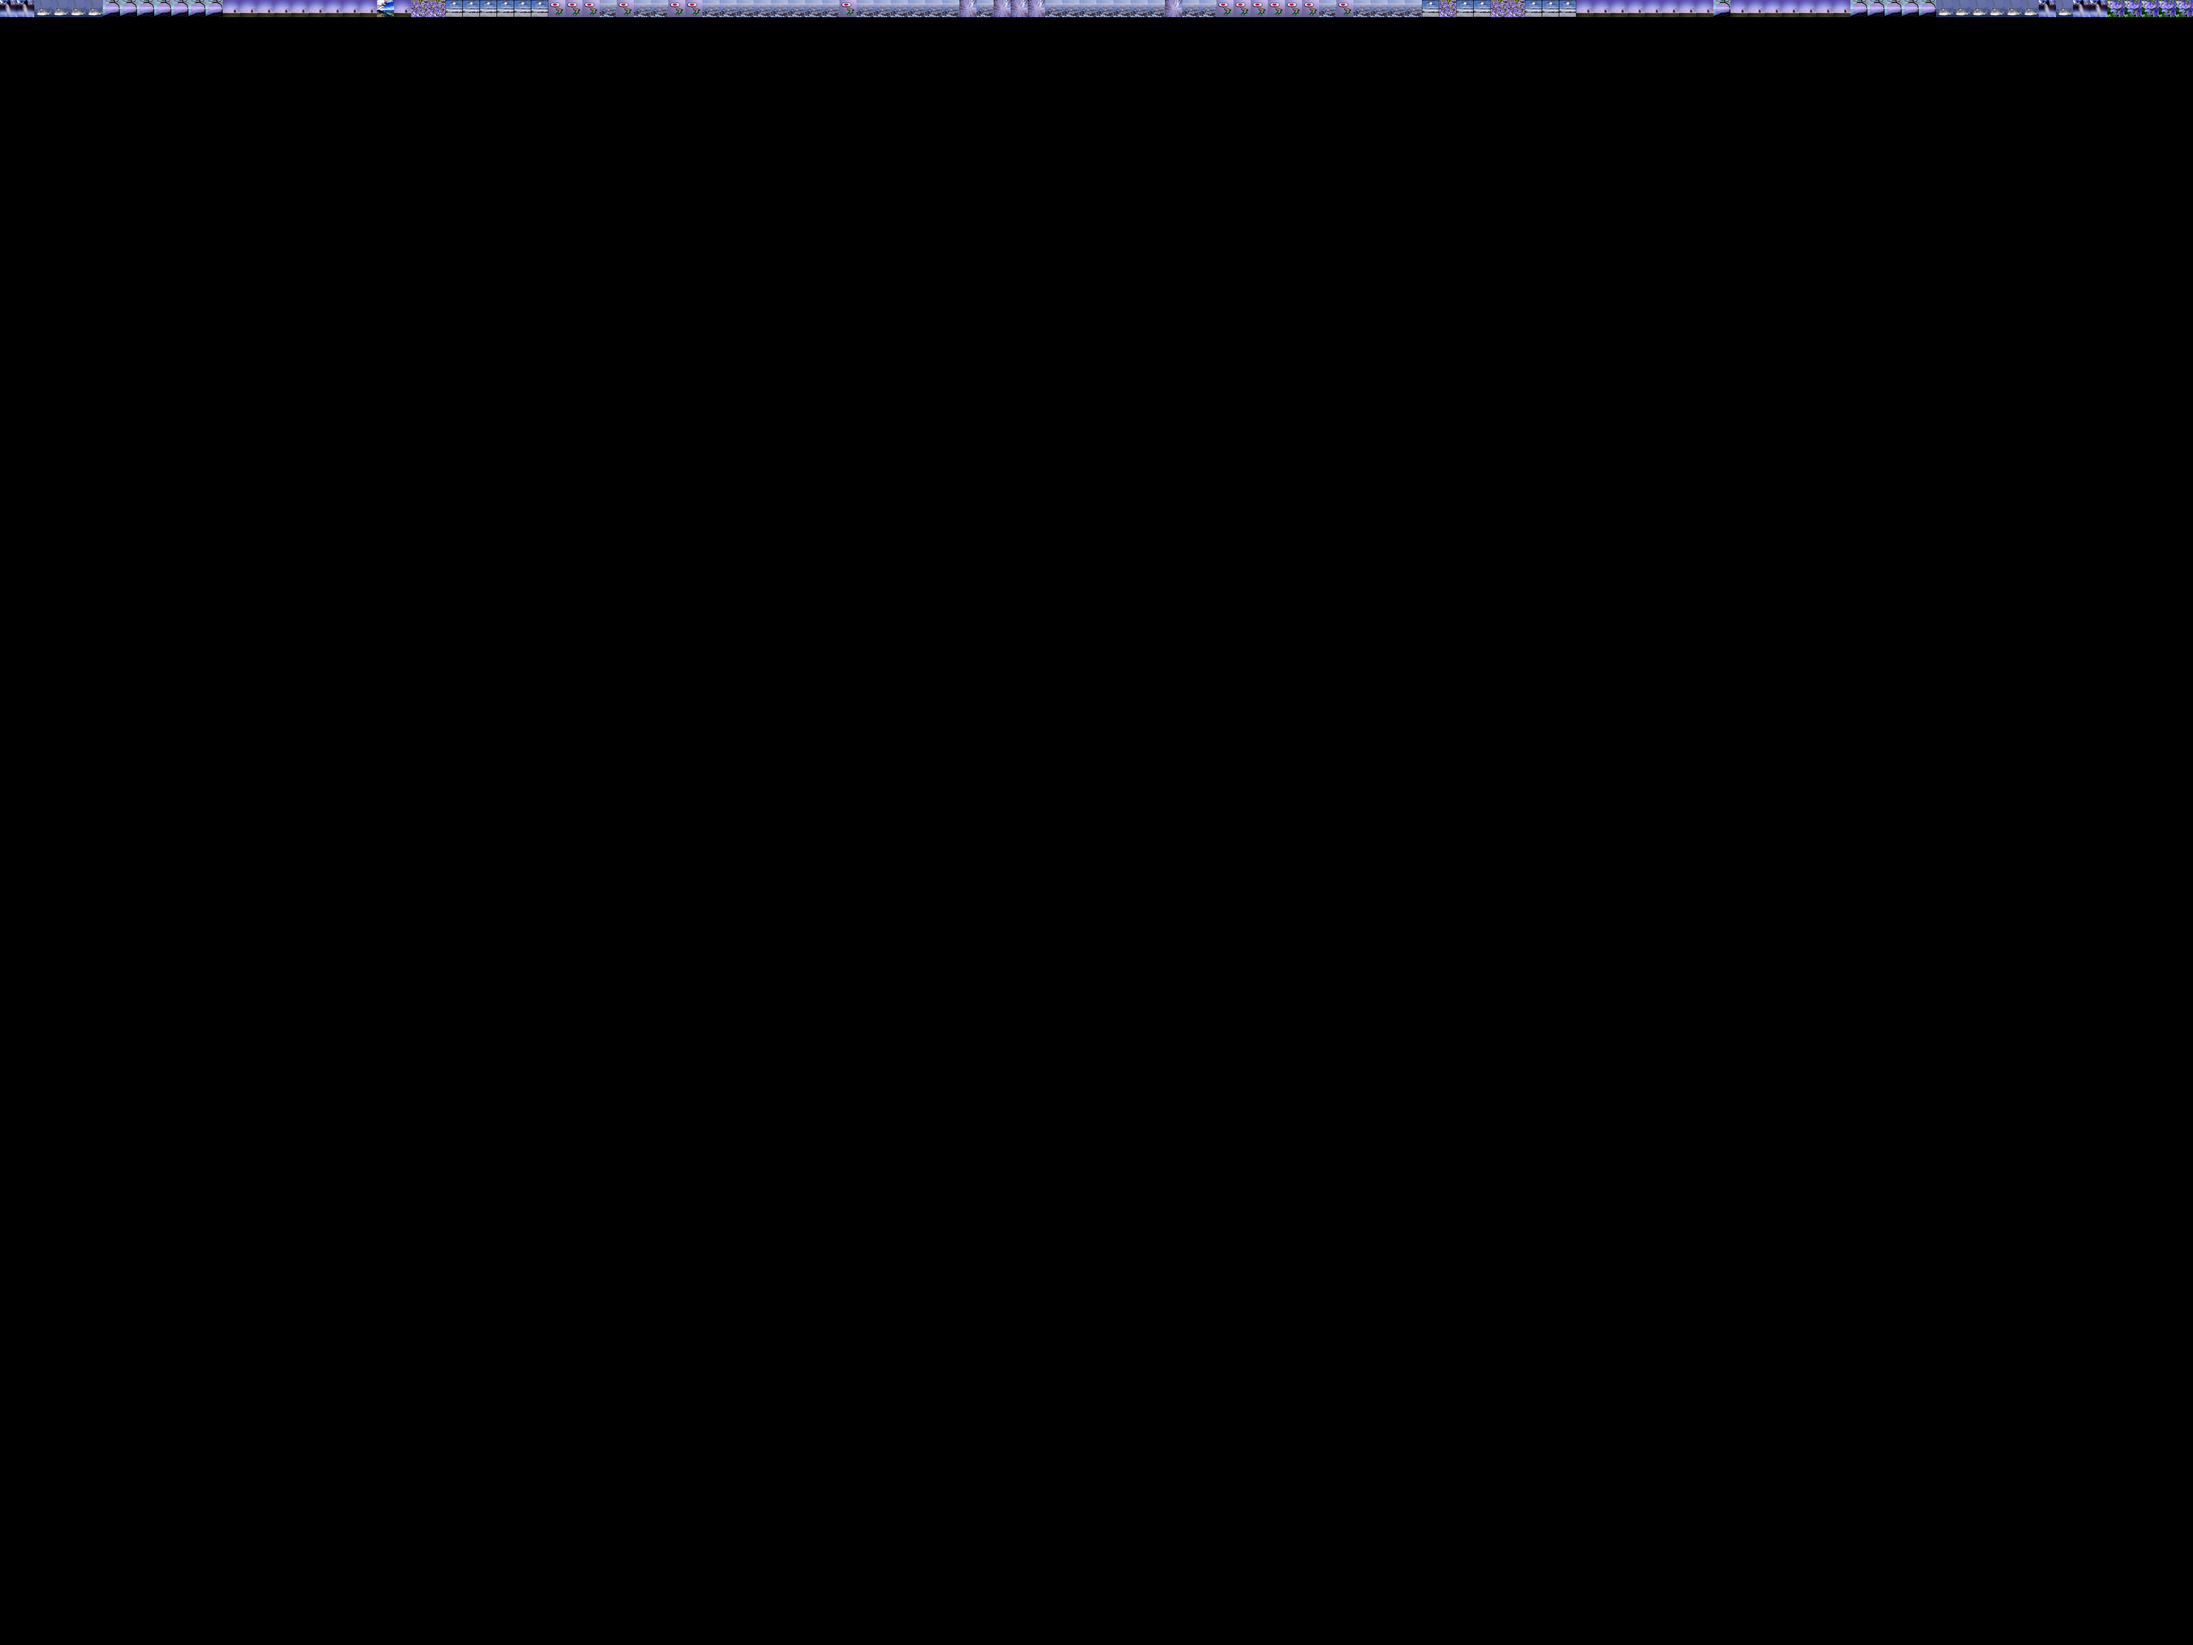
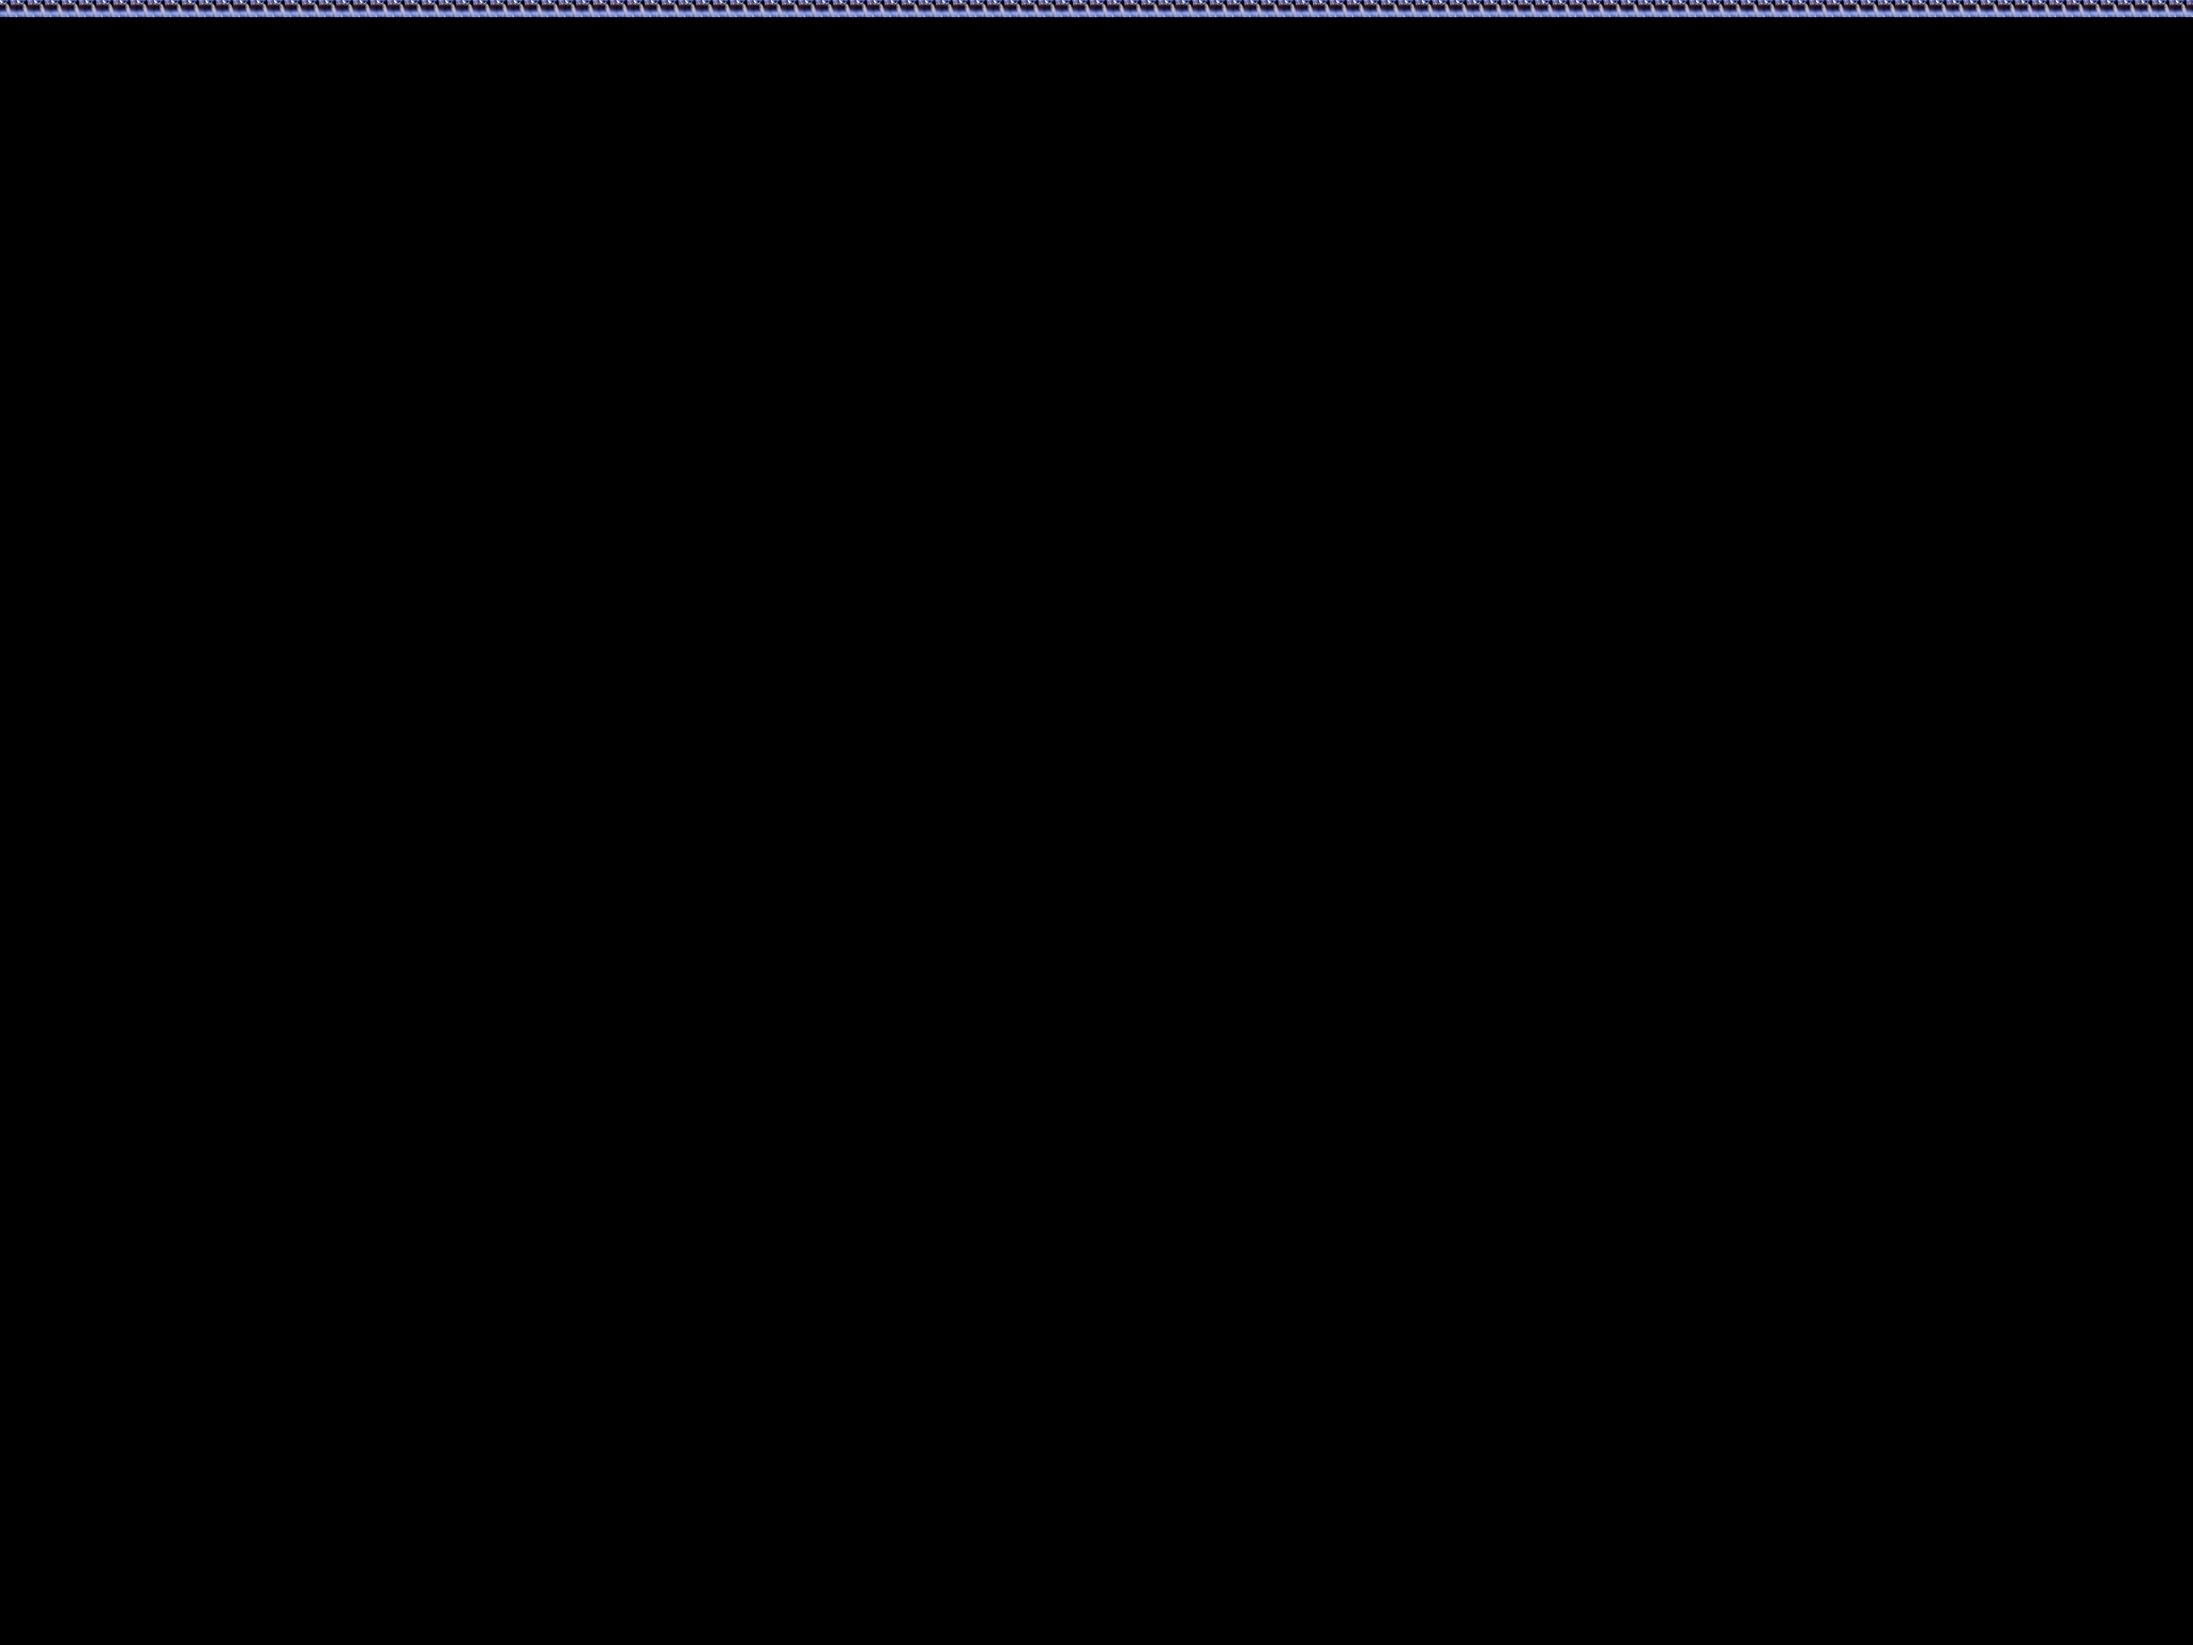
still tyring

Changed region(s): [[0.0, 0.0, 1.0, 0.0312]]

diff --git a/Mosaic/hw3_kit/src/hw3_copy.c b/Mosaic/hw3_kit/src/hw3_copy.c
@@ -245,21 +245,18 @@ IplImage* stitchImages(IplImage** closest, int numColumns, int numRows) {
 	//iterate over each cell and copy the closest image into it
 	// going row by row
 	for( j ; j < fheight; j+=cellheight){
-		printf(" j%d, ",j);
 		   // for each column in that row
          for( i ; i < fwidth; i+=cellwidth){
-				printf(" i%d, ",i);
 				cc = cc + 1;
 				// set the ROI of the result
 	      	cvSetImageROI(fImgptr, cvRect(i,j,cellwidth,cellheight));		
 				// copy the proper image into the result
-				cvCopy(closest[0],fImgptr,NULL);
+				cvCopy(closest[i],fImgptr,NULL);
 				// reset the ROI of the result
 				cvResetImageROI(fImgptr);
 				// increment k
 				k++;
 			}
-			k=0;
 			rc = rc + 1;
    }
 	printf("Rows %d Columns %d",rc,cc);
